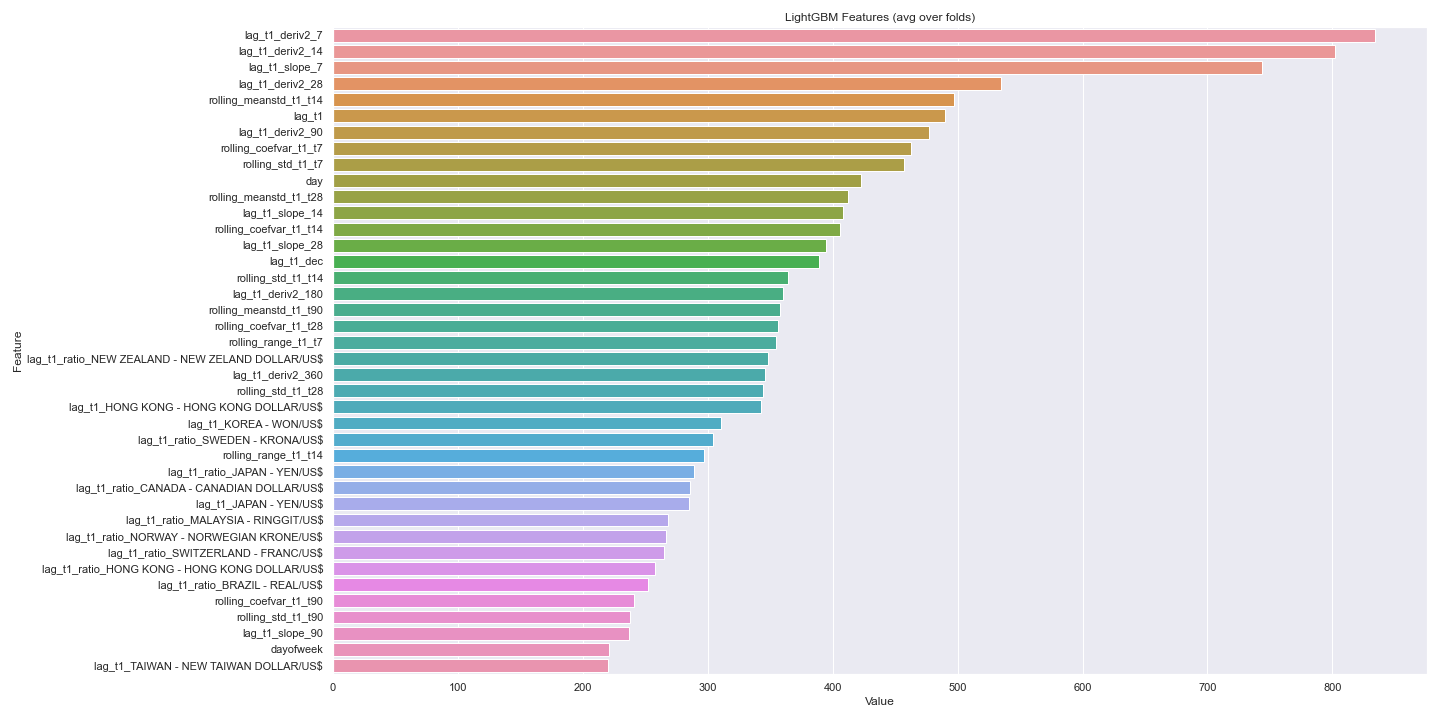
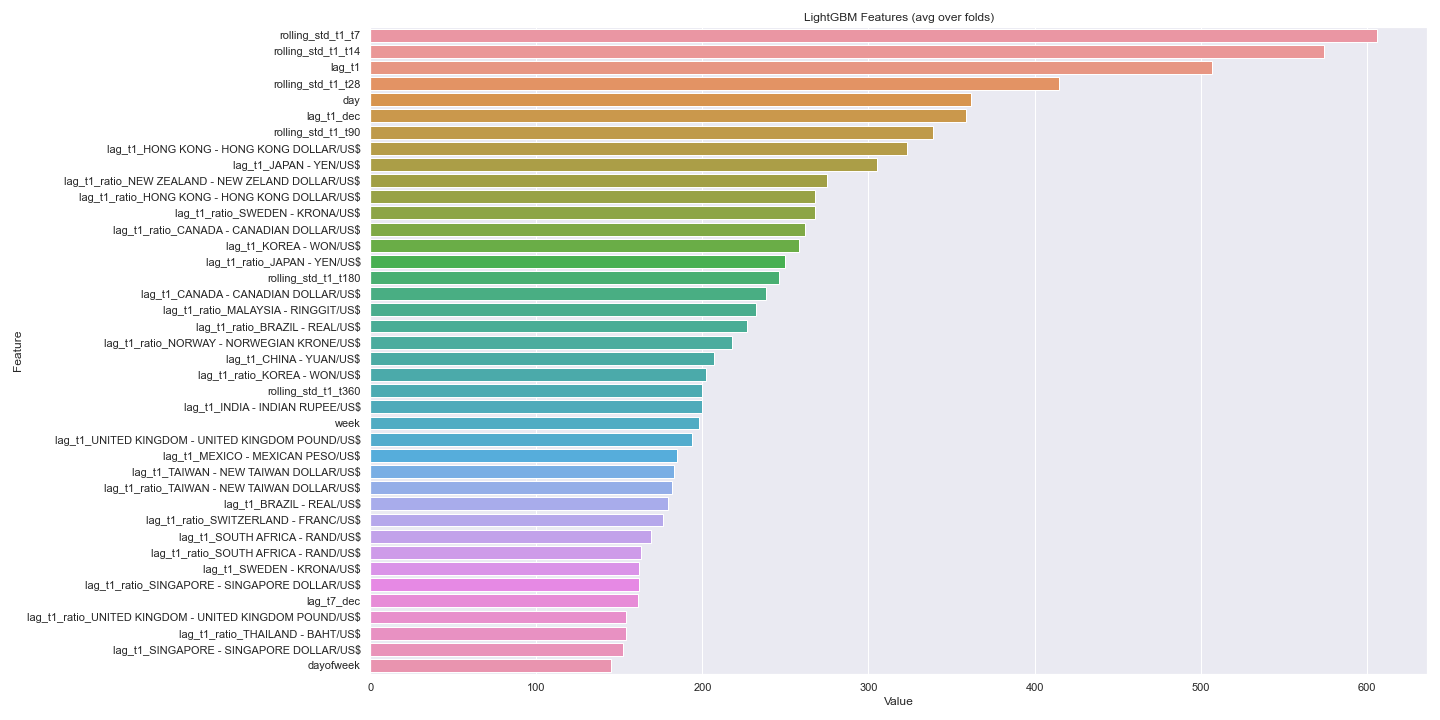
Python to combine folio and trade data (in progress)

diff --git a/MachineLearning/Python/DeepLearningFX/Hackathon/CombineTradeAndPortfolioData.py b/MachineLearning/Python/DeepLearningFX/Hackathon/CombineTradeAndPortfolioData.py
@@ -1,0 +1,46 @@
+# -*- coding: utf-8 -*-
+
+import datetime as dt
+from datetime import timedelta
+import matplotlib.pyplot as plt
+
+import pandas as pd
+
+print('Reading folio data')
+data_set = pd.read_excel('Data/Portfolio_data3_convert.xlsx',na_values='ND')
+print('Done')
+
+
+
+print('Reading trade data....')
+data_set = pd.read_excel('../Hackathon/Data/TradesConvertible2.xlsx',na_values='ND')
+print('Done')
+
+target_column = 'Net Amount'
+dates = pd.date_range('15/01/2020', periods=720, freq='D')
+trade_df_all = pd.DataFrame()
+
+for idx,date in enumerate(dates):
+
+    value= data_set.loc[data_set['Trade Date']==date]
+    if not value.empty:
+        value_sum = value.sum()
+        amount = value_sum[target_column]
+        dict = {'Date': date,target_column : amount}
+        trade_df_all = trade_df_all.append(dict, ignore_index = True)
+    else:
+        dict = {'Date': date,target_column : 0}
+        trade_df_all = trade_df_all.append(dict, ignore_index = True)
+
+
+'''trade_df_all['dt']=pd.trade_df_all(data_set['Trade Date'],format='%d/%m/%Y')
+data_set.sort_values(by='dt')'''
+
+# Show plo
+fig, ax = plt.subplots(figsize=(12, 12))
+plt.plot(trade_df_all['Date'],trade_df_all[target_column])
+
+ax.set(xlabel="Trade Date",
+       ylabel="Net Amount",
+       title="Time Series")
+plt.xticks(rotation=70)

diff --git a/MachineLearning/Python/DeepLearningFX/GradientBoostingFX.py b/MachineLearning/Python/DeepLearningFX/GradientBoostingFX.py
@@ -143,7 +143,7 @@ forex_df['lag_t3_round_1'] = forex_df['lag_t3'].round(1)
 forex_df['lag_t7_round_1'] = forex_df['lag_t7'].round(1)
 
 #rolling mode of rounded figure
-forex_df['lag_t1_mode_7'] = forex_df['lag_t1_round_1'].rolling(window=7,min_periods=1).apply(lambda x: mode(x)[0])
+'''forex_df['lag_t1_mode_7'] = forex_df['lag_t1_round_1'].rolling(window=7,min_periods=1).apply(lambda x: mode(x)[0])
 forex_df['lag_t1_mode_14'] = forex_df['lag_t1_round_1'].rolling(window=14,min_periods=1).apply(lambda x: mode(x)[0])
 forex_df['lag_t1_mode_28'] = forex_df['lag_t1_round_1'].rolling(window=28,min_periods=1).apply(lambda x: mode(x)[0])
 forex_df['lag_t1_mode_90'] = forex_df['lag_t1_round_1'].rolling(window=90,min_periods=1).apply(lambda x: mode(x)[0])
@@ -210,7 +210,7 @@ forex_df['lag_t1_deriv2_28'] = forex_df['lag_t1_slope_7'].rolling(28).apply(lamb
 forex_df['lag_t1_deriv2_90'] = forex_df['lag_t1_slope_7'].rolling(90).apply(lambda x: np.polyfit(range(90), x, 1)[0]).values
 forex_df['lag_t1_deriv2_180'] = forex_df['lag_t1_slope_7'].rolling(180).apply(lambda x: np.polyfit(range(180), x, 1)[0]).values
 forex_df['lag_t1_deriv2_360'] = forex_df['lag_t1_slope_7'].rolling(360).apply(lambda x: np.polyfit(range(360), x, 1)[0]).values
-
+'''
 #We have a heap of features:
 print(list(forex_df.columns))
 

diff --git a/MachineLearning/Python/DeepLearningFX/Hackathon/Hackathon_LSTM_folio.py b/MachineLearning/Python/DeepLearningFX/Hackathon/Hackathon_LSTM_folio.py
@@ -21,13 +21,20 @@ df = data_set['value']
 #Preprocessing data set
 df = np.array(df).reshape(-1,1)
 
+'''df['dt']=pd.to_datetime(data_set['Date'],format='%d/%m/%Y')
+df['week'] = data_set['dt'].dt.week 
+df['day'] = data_set['dt'].dt.day
+df['month'] = data_set['dt'].dt.month
+data_set['dayofweek'] = data_set['dt'].dt.dayofweek'''
+
 from sklearn.preprocessing import MinMaxScaler
 scaler = MinMaxScaler()
 df = scaler.fit_transform(df)
 
+
 #Training and test sets
-train = df[:200]
-test = df[200:]
+train = df[:260]
+test = df[260:]
 
 print(train.shape)
 print(test.shape)
